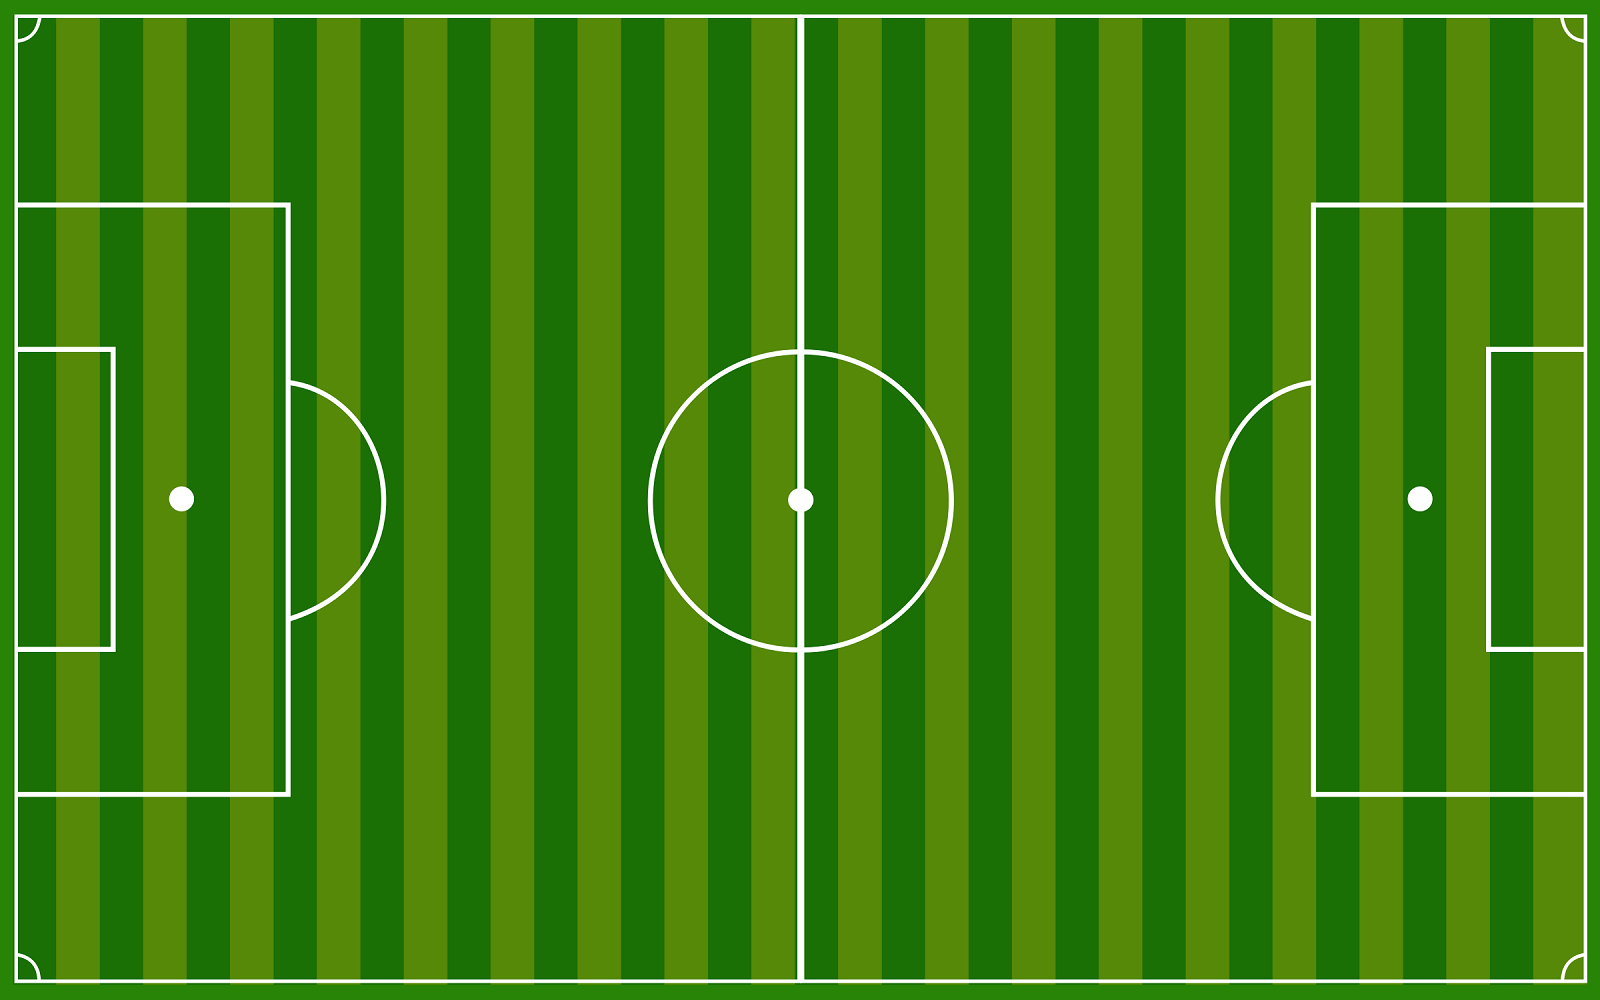
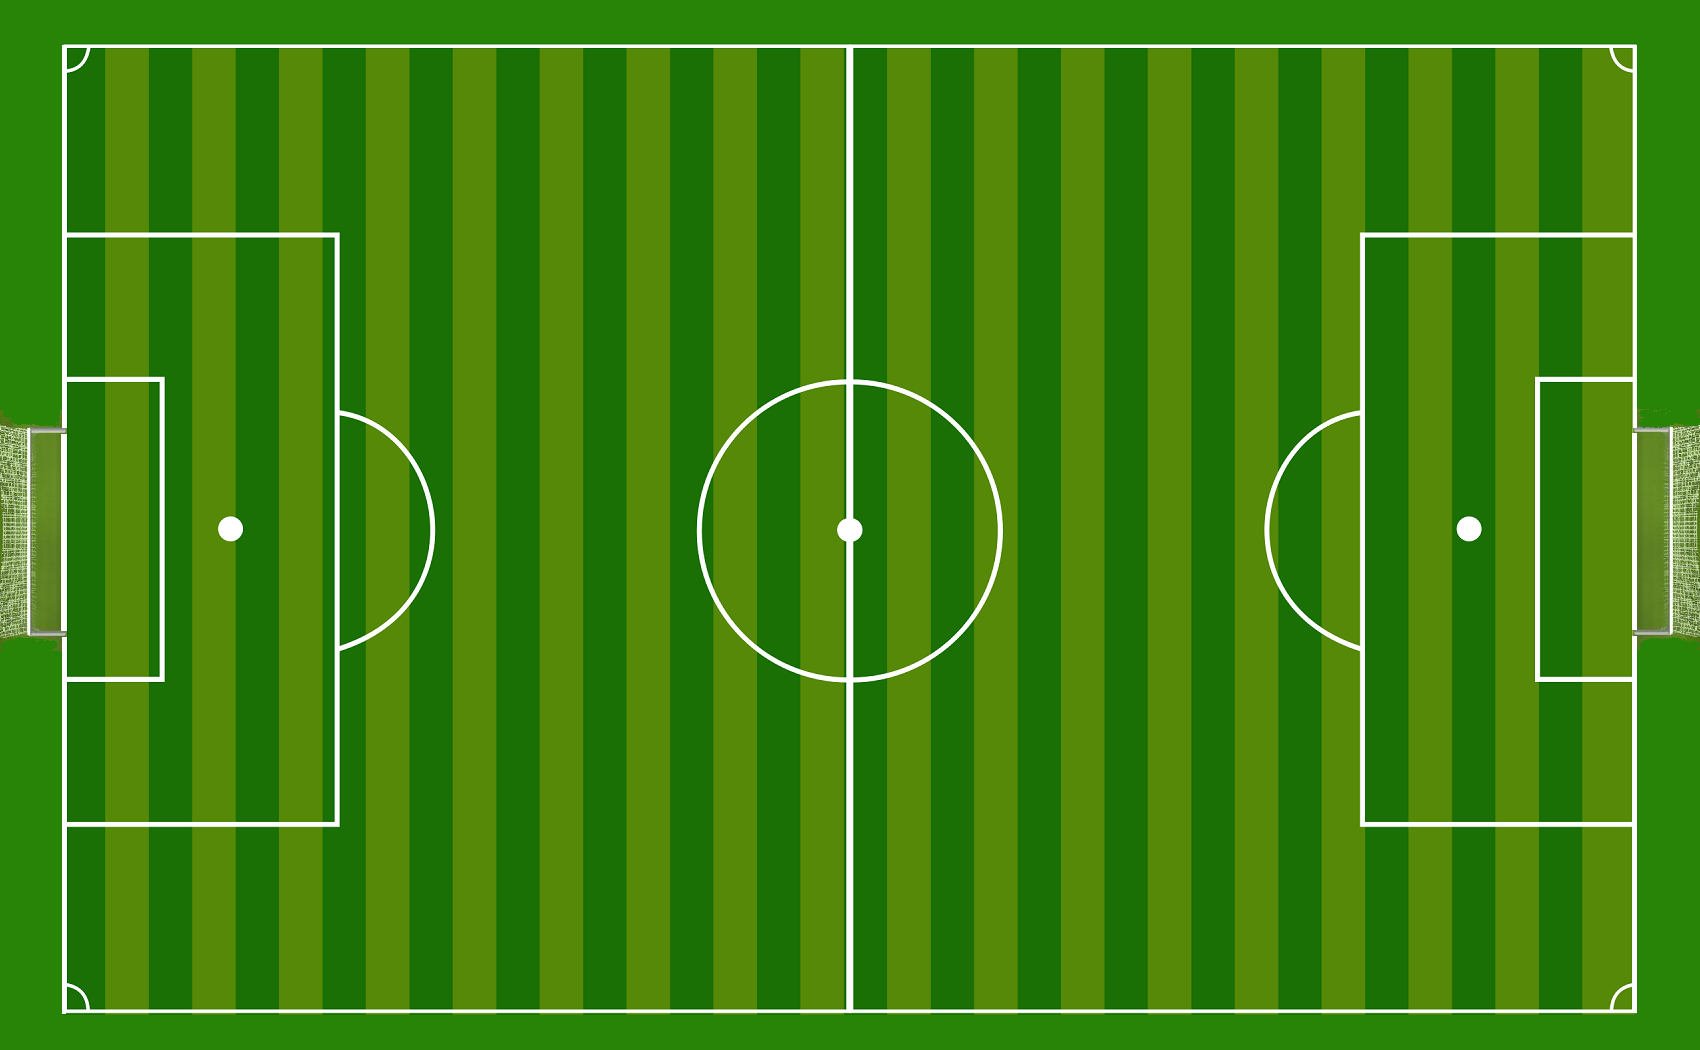
Agrego los arcos a la cancha y cambio el margen para que la pelota no quede pinchada

diff --git a/src/common/GameConstants.h b/src/common/GameConstants.h
@@ -28,8 +28,8 @@ typedef struct sprite_info {
 namespace YAML {
 	// Identicos a nuestra imagen de background en el cliente
 	// Si lo quieren manejar por separado hay que aplicar logica de escalado del mundo logico al background -> no es la idea
-	const int WORLD_WIDTH = 1600;
-	const int WORLD_HEIGHT = 1000;
+	const int WORLD_WIDTH = 1700;
+	const int WORLD_HEIGHT = 1050;
 
 	const size_t MAX_PLAYERS = 1; //TODO: Esto recibirlo desde el YAMLReader
 

diff --git a/src/server/BallModel.cpp b/src/server/BallModel.cpp
@@ -141,7 +141,7 @@ void BallModel::update(double dt, int x_limit, int y_limit, std::vector<PlayerCo
 		velY = 0;
 	}
 	else if (this->y < 0) { // limite de arriba
-		this->y = 10;
+		this->y = 25;
 		velX = 0;
 		velY = 0;
 	}
